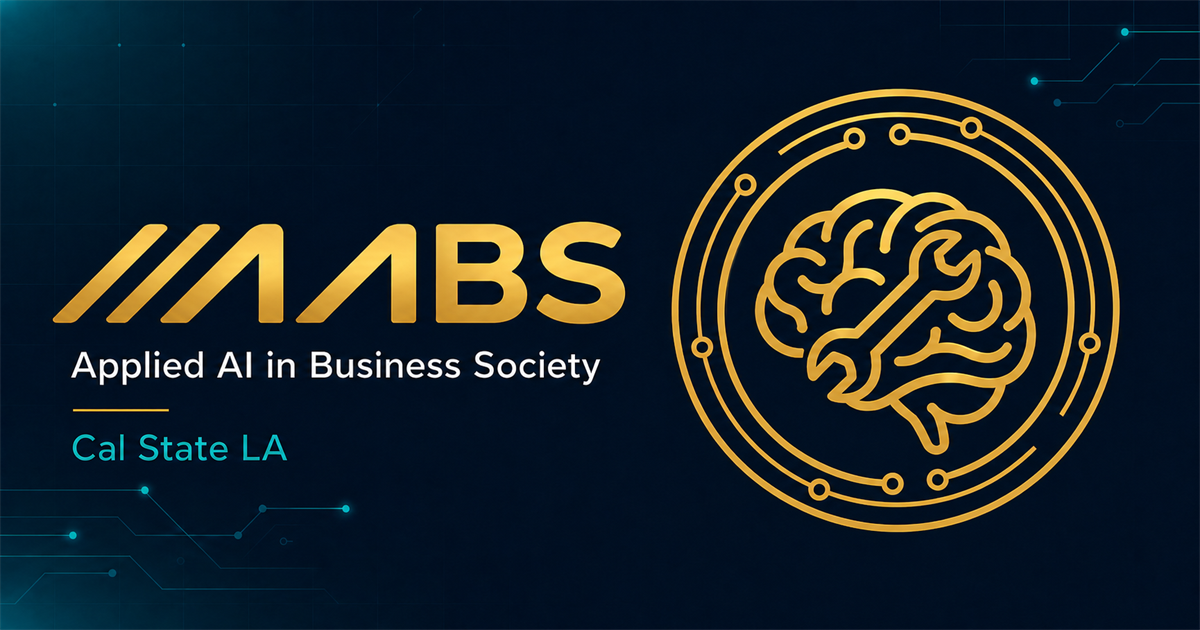
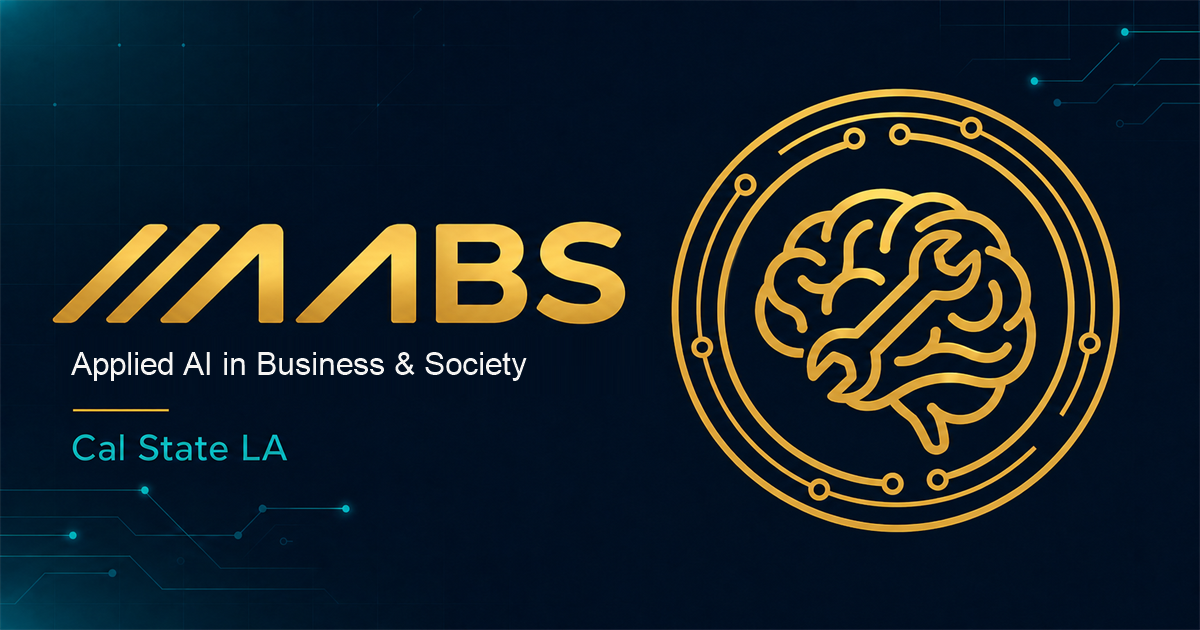
Rename club across site and sharing metadata
Adopt the official Applied AI in Business & Society name throughout the home page, join page, supporting tools, project source pages, and rebuilt project entry pages.

Update titles, descriptions, Open Graph and Twitter/X metadata, structured organization data, visible headings and footers, and the approved 1200x630 social card while leaving the favicon set unchanged.

Changed region(s): [[0.0617, 0.5429, 0.5242, 0.6032]]

diff --git a/index.html b/index.html
@@ -9,18 +9,18 @@
     />
     <meta
       name="description"
-      content="Applied AI in Business Society (AABS) at Cal State LA. Helping local businesses implement practical AI tools while building campus compute infrastructure."
+      content="Applied AI in Business & Society (AABS) at Cal State LA. Helping local businesses implement practical AI tools while building campus compute infrastructure."
     />
     <meta
       property="og:title"
-      content="AABS | Applied AI in Business Society | Cal State LA"
+      content="AABS | Applied AI in Business & Society | Cal State LA"
     />
     <meta
       property="og:description"
       content="Cal State LA student organization helping local businesses implement practical AI tools while building campus compute infrastructure."
     />
     <meta property="og:type" content="website" />
-    <meta property="og:site_name" content="Applied AI in Business Society" />
+    <meta property="og:site_name" content="Applied AI in Business & Society" />
     <meta property="og:locale" content="en_US" />
     <meta
       property="og:url"
@@ -35,12 +35,12 @@
     <meta property="og:image:height" content="630" />
     <meta
       property="og:image:alt"
-      content="AABS wordmark and brain-wrench emblem for the Applied AI in Business Society at Cal State LA"
+      content="AABS wordmark and brain-wrench emblem for the Applied AI in Business & Society at Cal State LA"
     />
     <meta name="twitter:card" content="summary_large_image" />
     <meta
       name="twitter:title"
-      content="AABS | Applied AI in Business Society | Cal State LA"
+      content="AABS | Applied AI in Business & Society | Cal State LA"
     />
     <meta
       name="twitter:description"
@@ -52,7 +52,7 @@
     />
     <meta
       name="twitter:image:alt"
-      content="AABS wordmark and brain-wrench emblem for the Applied AI in Business Society at Cal State LA"
+      content="AABS wordmark and brain-wrench emblem for the Applied AI in Business & Society at Cal State LA"
     />
     <link
       rel="canonical"
@@ -62,7 +62,7 @@
       {
         "@context": "https://schema.org",
         "@type": "Organization",
-        "name": "Applied AI in Business Society",
+        "name": "Applied AI in Business & Society",
         "alternateName": "AABS",
         "url": "https://applied-ai-in-business-society.vercel.app/",
         "logo": "https://applied-ai-in-business-society.vercel.app/img/aabs-brain-wrench-gold-v2.png",
@@ -79,7 +79,7 @@
         ]
       }
     </script>
-    <title>AABS | Applied AI in Business Society | Cal State LA</title>
+    <title>AABS | Applied AI in Business & Society | Cal State LA</title>
     <link rel="apple-touch-icon" sizes="180x180" href="favicon_io/apple-touch-icon.png" />
     <link rel="icon" type="image/x-icon" href="favicon_io/favicon.ico" />
     <link rel="manifest" href="favicon_io/site.webmanifest" />
@@ -161,7 +161,7 @@
           <div class="hero-copy">
             <div class="hero-tag">Cal State LA Student Organization</div>
             <h1>
-              Applied AI<br /><span class="hero-heading-line"><em>in Business</em> Society</span>
+              Applied AI<br /><span class="hero-heading-line"><em>in Business</em> &amp; Society</span>
             </h1>
             <p class="hero-sub">
               We help local businesses adopt practical AI tools to streamline work, while building dedicated campus compute infrastructure for student research and community projects.
@@ -667,7 +667,7 @@
     <footer>
       <div class="footer-brand">
         AABS
-        <span>Applied AI in Business Society</span>
+        <span>Applied AI in Business & Society</span>
       </div>
       <ul class="footer-links">
         <li><a href="https://www.instagram.com/aabscsula/" target="_blank" rel="noopener noreferrer">Instagram</a></li>

diff --git a/join.html b/join.html
@@ -5,18 +5,18 @@
     <meta name="viewport" content="width=device-width, initial-scale=1.0" />
     <meta
       name="description"
-      content="Join the Applied AI in Business Society (AABS), a Cal State LA student organization open to all majors and cross-college collaboration."
+      content="Join the Applied AI in Business & Society (AABS), a Cal State LA student organization open to all majors and cross-college collaboration."
     />
     <meta
       property="og:title"
-      content="Join AABS | Applied AI in Business Society"
+      content="Join AABS | Applied AI in Business & Society"
     />
     <meta
       property="og:description"
       content="Join AABS at Cal State LA to learn, build, and collaborate through practical AI projects, workshops, and professional networking."
     />
     <meta property="og:type" content="website" />
-    <meta property="og:site_name" content="Applied AI in Business Society" />
+    <meta property="og:site_name" content="Applied AI in Business & Society" />
     <meta property="og:locale" content="en_US" />
     <meta
       property="og:url"
@@ -31,12 +31,12 @@
     <meta property="og:image:height" content="630" />
     <meta
       property="og:image:alt"
-      content="AABS wordmark and brain-wrench emblem for the Applied AI in Business Society at Cal State LA"
+      content="AABS wordmark and brain-wrench emblem for the Applied AI in Business & Society at Cal State LA"
     />
     <meta name="twitter:card" content="summary_large_image" />
     <meta
       name="twitter:title"
-      content="Join AABS | Applied AI in Business Society"
+      content="Join AABS | Applied AI in Business & Society"
     />
     <meta
       name="twitter:description"
@@ -48,13 +48,13 @@
     />
     <meta
       name="twitter:image:alt"
-      content="AABS wordmark and brain-wrench emblem for the Applied AI in Business Society at Cal State LA"
+      content="AABS wordmark and brain-wrench emblem for the Applied AI in Business & Society at Cal State LA"
     />
     <link
       rel="canonical"
       href="https://applied-ai-in-business-society.vercel.app/join.html"
     />
-    <title>Join Us | Applied AI in Business Society (AABS)</title>
+    <title>Join Us | Applied AI in Business & Society (AABS)</title>
     <link rel="apple-touch-icon" sizes="180x180" href="favicon_io/apple-touch-icon.png" />
     <link rel="icon" type="image/x-icon" href="favicon_io/favicon.ico" />
     <link rel="manifest" href="favicon_io/site.webmanifest" />
@@ -112,7 +112,7 @@
       <section style="padding: 40px 24px;">
         <div style="max-width: 1100px; margin: 0 auto; text-align: center;">
           <div class="section-tag">Membership Application</div>
-          <h2>Join the <em>Applied AI in Business Society</em></h2>
+          <h2>Join the <em>Applied AI in Business & Society</em></h2>
           <p style="color: var(--text-dim); max-width: 560px; margin: 0 auto 32px; font-size: 14px; line-height: 1.8;">
             Complete this form to get connected with AABS. Students from every academic major at Cal State LA are welcome. We also welcome collaboration with students from ELAC and other colleges.
           </p>
@@ -296,7 +296,7 @@
     <footer>
       <div class="footer-brand">
         AABS
-        <span>Applied AI in Business Society</span>
+        <span>Applied AI in Business & Society</span>
       </div>
       <ul class="footer-links">
         <li><a href="https://www.instagram.com/aabscsula/" target="_blank" rel="noopener noreferrer">Instagram</a></li>

diff --git a/audit_analytics_project/dist/index.html b/audit_analytics_project/dist/index.html
@@ -21,19 +21,19 @@
     <meta property="og:title" content="Audit Analytics Terminal | Forensic Audit Dashboard" />
     <meta property="og:description" content="Audit Analytics Terminal: A high-performance forensic audit dashboard for bike manufacturer data, financial anomalies, and risk matrix visualization." />
     <meta property="og:type" content="website" />
-    <meta property="og:site_name" content="Applied AI in Business Society" />
+    <meta property="og:site_name" content="Applied AI in Business & Society" />
     <meta property="og:locale" content="en_US" />
     <meta property="og:url" content="https://applied-ai-in-business-society.vercel.app/audit_analytics_project/dist/index.html" />
     <meta property="og:image" content="https://applied-ai-in-business-society.vercel.app/img/aabs-social-preview-v2.png" />
     <meta property="og:image:type" content="image/png" />
     <meta property="og:image:width" content="1200" />
     <meta property="og:image:height" content="630" />
-    <meta property="og:image:alt" content="AABS wordmark and brain-wrench emblem for the Applied AI in Business Society at Cal State LA" />
+    <meta property="og:image:alt" content="AABS wordmark and brain-wrench emblem for the Applied AI in Business & Society at Cal State LA" />
     <meta name="twitter:card" content="summary_large_image" />
     <meta name="twitter:title" content="Audit Analytics Terminal | Forensic Audit Dashboard" />
     <meta name="twitter:description" content="A forensic audit dashboard for financial anomalies, Benford analysis, exception review, and risk-matrix visualization." />
     <meta name="twitter:image" content="https://applied-ai-in-business-society.vercel.app/img/aabs-social-preview-v2.png" />
-    <meta name="twitter:image:alt" content="AABS wordmark and brain-wrench emblem for the Applied AI in Business Society at Cal State LA" />
+    <meta name="twitter:image:alt" content="AABS wordmark and brain-wrench emblem for the Applied AI in Business & Society at Cal State LA" />
     <link rel="canonical" href="https://applied-ai-in-business-society.vercel.app/audit_analytics_project/dist/index.html" />
     <title>Audit Analytics Terminal | Forensic Audit Dashboard</title>
     <script defer src="./assets/index-C9RmHcuZ.js"></script>

diff --git a/techflow_project_v2/dist/index.html b/techflow_project_v2/dist/index.html
@@ -13,19 +13,19 @@
     <meta property="og:title" content="TechFlow NexCore Analytics | B2B Revenue &amp; AR Intelligence" />
     <meta property="og:description" content="Analyze $120M in B2B revenue through AR aging, bad-debt provisioning, audit flags, and AI-powered financial insights." />
     <meta property="og:type" content="website" />
-    <meta property="og:site_name" content="Applied AI in Business Society" />
+    <meta property="og:site_name" content="Applied AI in Business & Society" />
     <meta property="og:locale" content="en_US" />
     <meta property="og:url" content="https://applied-ai-in-business-society.vercel.app/techflow_project_v2/dist/index.html" />
     <meta property="og:image" content="https://applied-ai-in-business-society.vercel.app/img/aabs-social-preview-v2.png" />
     <meta property="og:image:type" content="image/png" />
     <meta property="og:image:width" content="1200" />
     <meta property="og:image:height" content="630" />
-    <meta property="og:image:alt" content="AABS wordmark and brain-wrench emblem for the Applied AI in Business Society at Cal State LA" />
+    <meta property="og:image:alt" content="AABS wordmark and brain-wrench emblem for the Applied AI in Business & Society at Cal State LA" />
     <meta name="twitter:card" content="summary_large_image" />
     <meta name="twitter:title" content="TechFlow NexCore Analytics | B2B Revenue &amp; AR Intelligence" />
     <meta name="twitter:description" content="Analyze $120M in B2B revenue through AR aging, bad-debt provisioning, audit flags, and AI-powered financial insights." />
     <meta name="twitter:image" content="https://applied-ai-in-business-society.vercel.app/img/aabs-social-preview-v2.png" />
-    <meta name="twitter:image:alt" content="AABS wordmark and brain-wrench emblem for the Applied AI in Business Society at Cal State LA" />
+    <meta name="twitter:image:alt" content="AABS wordmark and brain-wrench emblem for the Applied AI in Business & Society at Cal State LA" />
     <link rel="canonical" href="https://applied-ai-in-business-society.vercel.app/techflow_project_v2/dist/index.html" />
     <title>TechFlow NexCore Analytics | B2B Revenue & AR Intelligence</title>
     <script defer src="./assets/index-DbmFHFCy.js"></script>

diff --git a/techflow_project_v1/dist/index.html b/techflow_project_v1/dist/index.html
@@ -13,19 +13,19 @@
     <meta property="og:title" content="TechFlow Analytics V1 | FY 2019 Revenue Intelligence" />
     <meta property="og:description" content="Explore $85M in B2B revenue through customer analysis, AR aging, payment risk, and AI-powered financial insights." />
     <meta property="og:type" content="website" />
-    <meta property="og:site_name" content="Applied AI in Business Society" />
+    <meta property="og:site_name" content="Applied AI in Business & Society" />
     <meta property="og:locale" content="en_US" />
     <meta property="og:url" content="https://applied-ai-in-business-society.vercel.app/techflow_project_v1/dist/index.html" />
     <meta property="og:image" content="https://applied-ai-in-business-society.vercel.app/img/aabs-social-preview-v2.png" />
     <meta property="og:image:type" content="image/png" />
     <meta property="og:image:width" content="1200" />
     <meta property="og:image:height" content="630" />
-    <meta property="og:image:alt" content="AABS wordmark and brain-wrench emblem for the Applied AI in Business Society at Cal State LA" />
+    <meta property="og:image:alt" content="AABS wordmark and brain-wrench emblem for the Applied AI in Business & Society at Cal State LA" />
     <meta name="twitter:card" content="summary_large_image" />
     <meta name="twitter:title" content="TechFlow Analytics V1 | FY 2019 Revenue Intelligence" />
     <meta name="twitter:description" content="Explore $85M in B2B revenue through customer analysis, AR aging, payment risk, and AI-powered financial insights." />
     <meta name="twitter:image" content="https://applied-ai-in-business-society.vercel.app/img/aabs-social-preview-v2.png" />
-    <meta name="twitter:image:alt" content="AABS wordmark and brain-wrench emblem for the Applied AI in Business Society at Cal State LA" />
+    <meta name="twitter:image:alt" content="AABS wordmark and brain-wrench emblem for the Applied AI in Business & Society at Cal State LA" />
     <link rel="canonical" href="https://applied-ai-in-business-society.vercel.app/techflow_project_v1/dist/index.html" />
     <title>TechFlow Analytics V1 | FY 2019 Revenue Intelligence</title>
     <script defer src="./assets/index-mxecHmBZ.js"></script>

diff --git a/audit_analytics_project/index.html b/audit_analytics_project/index.html
@@ -21,19 +21,19 @@
     <meta property="og:title" content="Audit Analytics Terminal | Forensic Audit Dashboard" />
     <meta property="og:description" content="Audit Analytics Terminal: A high-performance forensic audit dashboard for bike manufacturer data, financial anomalies, and risk matrix visualization." />
     <meta property="og:type" content="website" />
-    <meta property="og:site_name" content="Applied AI in Business Society" />
+    <meta property="og:site_name" content="Applied AI in Business & Society" />
     <meta property="og:locale" content="en_US" />
     <meta property="og:url" content="https://applied-ai-in-business-society.vercel.app/audit_analytics_project/dist/index.html" />
     <meta property="og:image" content="https://applied-ai-in-business-society.vercel.app/img/aabs-social-preview-v2.png" />
     <meta property="og:image:type" content="image/png" />
     <meta property="og:image:width" content="1200" />
     <meta property="og:image:height" content="630" />
-    <meta property="og:image:alt" content="AABS wordmark and brain-wrench emblem for the Applied AI in Business Society at Cal State LA" />
+    <meta property="og:image:alt" content="AABS wordmark and brain-wrench emblem for the Applied AI in Business & Society at Cal State LA" />
     <meta name="twitter:card" content="summary_large_image" />
     <meta name="twitter:title" content="Audit Analytics Terminal | Forensic Audit Dashboard" />
     <meta name="twitter:description" content="A forensic audit dashboard for financial anomalies, Benford analysis, exception review, and risk-matrix visualization." />
     <meta name="twitter:image" content="https://applied-ai-in-business-society.vercel.app/img/aabs-social-preview-v2.png" />
-    <meta name="twitter:image:alt" content="AABS wordmark and brain-wrench emblem for the Applied AI in Business Society at Cal State LA" />
+    <meta name="twitter:image:alt" content="AABS wordmark and brain-wrench emblem for the Applied AI in Business & Society at Cal State LA" />
     <link rel="canonical" href="https://applied-ai-in-business-society.vercel.app/audit_analytics_project/dist/index.html" />
     <title>Audit Analytics Terminal | Forensic Audit Dashboard</title>
   </head>

diff --git a/techflow_project_v2/index.html b/techflow_project_v2/index.html
@@ -13,19 +13,19 @@
     <meta property="og:title" content="TechFlow NexCore Analytics | B2B Revenue &amp; AR Intelligence" />
     <meta property="og:description" content="Analyze $120M in B2B revenue through AR aging, bad-debt provisioning, audit flags, and AI-powered financial insights." />
     <meta property="og:type" content="website" />
-    <meta property="og:site_name" content="Applied AI in Business Society" />
+    <meta property="og:site_name" content="Applied AI in Business & Society" />
     <meta property="og:locale" content="en_US" />
     <meta property="og:url" content="https://applied-ai-in-business-society.vercel.app/techflow_project_v2/dist/index.html" />
     <meta property="og:image" content="https://applied-ai-in-business-society.vercel.app/img/aabs-social-preview-v2.png" />
     <meta property="og:image:type" content="image/png" />
     <meta property="og:image:width" content="1200" />
     <meta property="og:image:height" content="630" />
-    <meta property="og:image:alt" content="AABS wordmark and brain-wrench emblem for the Applied AI in Business Society at Cal State LA" />
+    <meta property="og:image:alt" content="AABS wordmark and brain-wrench emblem for the Applied AI in Business & Society at Cal State LA" />
     <meta name="twitter:card" content="summary_large_image" />
     <meta name="twitter:title" content="TechFlow NexCore Analytics | B2B Revenue &amp; AR Intelligence" />
     <meta name="twitter:description" content="Analyze $120M in B2B revenue through AR aging, bad-debt provisioning, audit flags, and AI-powered financial insights." />
     <meta name="twitter:image" content="https://applied-ai-in-business-society.vercel.app/img/aabs-social-preview-v2.png" />
-    <meta name="twitter:image:alt" content="AABS wordmark and brain-wrench emblem for the Applied AI in Business Society at Cal State LA" />
+    <meta name="twitter:image:alt" content="AABS wordmark and brain-wrench emblem for the Applied AI in Business & Society at Cal State LA" />
     <link rel="canonical" href="https://applied-ai-in-business-society.vercel.app/techflow_project_v2/dist/index.html" />
     <title>TechFlow NexCore Analytics | B2B Revenue & AR Intelligence</title>
   </head>

diff --git a/financial-analysis.html b/financial-analysis.html
@@ -10,19 +10,19 @@
     <meta property="og:title" content="Corporate Valuation Intelligence | AABS" />
     <meta property="og:description" content="AI-assisted corporate valuation platform performing peer comparison, discounted cash-flow modeling, and risk analysis." />
     <meta property="og:type" content="website" />
-    <meta property="og:site_name" content="Applied AI in Business Society" />
+    <meta property="og:site_name" content="Applied AI in Business & Society" />
     <meta property="og:locale" content="en_US" />
     <meta property="og:url" content="https://applied-ai-in-business-society.vercel.app/financial-analysis.html" />
     <meta property="og:image" content="https://applied-ai-in-business-society.vercel.app/img/aabs-social-preview-v2.png" />
     <meta property="og:image:type" content="image/png" />
     <meta property="og:image:width" content="1200" />
     <meta property="og:image:height" content="630" />
-    <meta property="og:image:alt" content="AABS wordmark and brain-wrench emblem for the Applied AI in Business Society at Cal State LA" />
+    <meta property="og:image:alt" content="AABS wordmark and brain-wrench emblem for the Applied AI in Business & Society at Cal State LA" />
     <meta name="twitter:card" content="summary_large_image" />
     <meta name="twitter:title" content="Corporate Valuation Intelligence | AABS" />
     <meta name="twitter:description" content="AI-assisted corporate valuation platform performing peer comparison, discounted cash-flow modeling, and risk analysis." />
     <meta name="twitter:image" content="https://applied-ai-in-business-society.vercel.app/img/aabs-social-preview-v2.png" />
-    <meta name="twitter:image:alt" content="AABS wordmark and brain-wrench emblem for the Applied AI in Business Society at Cal State LA" />
+    <meta name="twitter:image:alt" content="AABS wordmark and brain-wrench emblem for the Applied AI in Business & Society at Cal State LA" />
     <link rel="canonical" href="https://applied-ai-in-business-society.vercel.app/financial-analysis.html" />
     <title>Corporate Valuation Intelligence | AABS</title>
     <link rel="apple-touch-icon" sizes="180x180" href="favicon_io/apple-touch-icon.png" />

diff --git a/ledger_lens_project/dist/index.html b/ledger_lens_project/dist/index.html
@@ -10,19 +10,19 @@
     <meta property="og:title" content="Ledger Lens | Enterprise AI for Tax Professionals" />
     <meta property="og:description" content="A practical guide to leveraging enterprise AI for tax professionals, focusing on bad debt provision and AR aging analysis." />
     <meta property="og:type" content="website" />
-    <meta property="og:site_name" content="Applied AI in Business Society" />
+    <meta property="og:site_name" content="Applied AI in Business & Society" />
     <meta property="og:locale" content="en_US" />
     <meta property="og:url" content="https://applied-ai-in-business-society.vercel.app/ledger_lens_project/dist/index.html" />
     <meta property="og:image" content="https://applied-ai-in-business-society.vercel.app/img/aabs-social-preview-v2.png" />
     <meta property="og:image:type" content="image/png" />
     <meta property="og:image:width" content="1200" />
     <meta property="og:image:height" content="630" />
-    <meta property="og:image:alt" content="AABS wordmark and brain-wrench emblem for the Applied AI in Business Society at Cal State LA" />
+    <meta property="og:image:alt" content="AABS wordmark and brain-wrench emblem for the Applied AI in Business & Society at Cal State LA" />
     <meta name="twitter:card" content="summary_large_image" />
     <meta name="twitter:title" content="Ledger Lens | Enterprise AI for Tax Professionals" />
     <meta name="twitter:description" content="A practical guide to bad-debt provision, AR aging analysis, and enterprise AI workflows for tax professionals." />
     <meta name="twitter:image" content="https://applied-ai-in-business-society.vercel.app/img/aabs-social-preview-v2.png" />
-    <meta name="twitter:image:alt" content="AABS wordmark and brain-wrench emblem for the Applied AI in Business Society at Cal State LA" />
+    <meta name="twitter:image:alt" content="AABS wordmark and brain-wrench emblem for the Applied AI in Business & Society at Cal State LA" />
     <link rel="canonical" href="https://applied-ai-in-business-society.vercel.app/ledger_lens_project/dist/index.html" />
     <title>Ledger Lens | Enterprise AI for Tax Professionals</title>
     <script>

diff --git a/ledger_lens_project/index.html b/ledger_lens_project/index.html
@@ -10,19 +10,19 @@
     <meta property="og:title" content="Ledger Lens | Enterprise AI for Tax Professionals" />
     <meta property="og:description" content="A practical guide to leveraging enterprise AI for tax professionals, focusing on bad debt provision and AR aging analysis." />
     <meta property="og:type" content="website" />
-    <meta property="og:site_name" content="Applied AI in Business Society" />
+    <meta property="og:site_name" content="Applied AI in Business & Society" />
     <meta property="og:locale" content="en_US" />
     <meta property="og:url" content="https://applied-ai-in-business-society.vercel.app/ledger_lens_project/dist/index.html" />
     <meta property="og:image" content="https://applied-ai-in-business-society.vercel.app/img/aabs-social-preview-v2.png" />
     <meta property="og:image:type" content="image/png" />
     <meta property="og:image:width" content="1200" />
     <meta property="og:image:height" content="630" />
-    <meta property="og:image:alt" content="AABS wordmark and brain-wrench emblem for the Applied AI in Business Society at Cal State LA" />
+    <meta property="og:image:alt" content="AABS wordmark and brain-wrench emblem for the Applied AI in Business & Society at Cal State LA" />
     <meta name="twitter:card" content="summary_large_image" />
     <meta name="twitter:title" content="Ledger Lens | Enterprise AI for Tax Professionals" />
     <meta name="twitter:description" content="A practical guide to bad-debt provision, AR aging analysis, and enterprise AI workflows for tax professionals." />
     <meta name="twitter:image" content="https://applied-ai-in-business-society.vercel.app/img/aabs-social-preview-v2.png" />
-    <meta name="twitter:image:alt" content="AABS wordmark and brain-wrench emblem for the Applied AI in Business Society at Cal State LA" />
+    <meta name="twitter:image:alt" content="AABS wordmark and brain-wrench emblem for the Applied AI in Business & Society at Cal State LA" />
     <link rel="canonical" href="https://applied-ai-in-business-society.vercel.app/ledger_lens_project/dist/index.html" />
     <title>Ledger Lens | Enterprise AI for Tax Professionals</title>
     <script>

diff --git a/techflow_project_v1/index.html b/techflow_project_v1/index.html
@@ -13,19 +13,19 @@
     <meta property="og:title" content="TechFlow Analytics V1 | FY 2019 Revenue Intelligence" />
     <meta property="og:description" content="Explore $85M in B2B revenue through customer analysis, AR aging, payment risk, and AI-powered financial insights." />
     <meta property="og:type" content="website" />
-    <meta property="og:site_name" content="Applied AI in Business Society" />
+    <meta property="og:site_name" content="Applied AI in Business & Society" />
     <meta property="og:locale" content="en_US" />
     <meta property="og:url" content="https://applied-ai-in-business-society.vercel.app/techflow_project_v1/dist/index.html" />
     <meta property="og:image" content="https://applied-ai-in-business-society.vercel.app/img/aabs-social-preview-v2.png" />
     <meta property="og:image:type" content="image/png" />
     <meta property="og:image:width" content="1200" />
     <meta property="og:image:height" content="630" />
-    <meta property="og:image:alt" content="AABS wordmark and brain-wrench emblem for the Applied AI in Business Society at Cal State LA" />
+    <meta property="og:image:alt" content="AABS wordmark and brain-wrench emblem for the Applied AI in Business & Society at Cal State LA" />
     <meta name="twitter:card" content="summary_large_image" />
     <meta name="twitter:title" content="TechFlow Analytics V1 | FY 2019 Revenue Intelligence" />
     <meta name="twitter:description" content="Explore $85M in B2B revenue through customer analysis, AR aging, payment risk, and AI-powered financial insights." />
     <meta name="twitter:image" content="https://applied-ai-in-business-society.vercel.app/img/aabs-social-preview-v2.png" />
-    <meta name="twitter:image:alt" content="AABS wordmark and brain-wrench emblem for the Applied AI in Business Society at Cal State LA" />
+    <meta name="twitter:image:alt" content="AABS wordmark and brain-wrench emblem for the Applied AI in Business & Society at Cal State LA" />
     <link rel="canonical" href="https://applied-ai-in-business-society.vercel.app/techflow_project_v1/dist/index.html" />
     <title>TechFlow Analytics V1 | FY 2019 Revenue Intelligence</title>
   </head>

diff --git a/diagram-maker.html b/diagram-maker.html
@@ -10,19 +10,19 @@
     <meta property="og:title" content="Systems Analysis Diagram Maker | AABS" />
     <meta property="og:description" content="Generate use-case, activity, class, and ER diagrams from plain English with AI." />
     <meta property="og:type" content="website" />
-    <meta property="og:site_name" content="Applied AI in Business Society" />
+    <meta property="og:site_name" content="Applied AI in Business & Society" />
     <meta property="og:locale" content="en_US" />
     <meta property="og:url" content="https://applied-ai-in-business-society.vercel.app/diagram-maker.html" />
     <meta property="og:image" content="https://applied-ai-in-business-society.vercel.app/img/aabs-social-preview-v2.png" />
     <meta property="og:image:type" content="image/png" />
     <meta property="og:image:width" content="1200" />
     <meta property="og:image:height" content="630" />
-    <meta property="og:image:alt" content="AABS wordmark and brain-wrench emblem for the Applied AI in Business Society at Cal State LA" />
+    <meta property="og:image:alt" content="AABS wordmark and brain-wrench emblem for the Applied AI in Business & Society at Cal State LA" />
     <meta name="twitter:card" content="summary_large_image" />
     <meta name="twitter:title" content="Systems Analysis Diagram Maker | AABS" />
     <meta name="twitter:description" content="Generate use-case, activity, class, and ER diagrams from plain English with AI." />
     <meta name="twitter:image" content="https://applied-ai-in-business-society.vercel.app/img/aabs-social-preview-v2.png" />
-    <meta name="twitter:image:alt" content="AABS wordmark and brain-wrench emblem for the Applied AI in Business Society at Cal State LA" />
+    <meta name="twitter:image:alt" content="AABS wordmark and brain-wrench emblem for the Applied AI in Business & Society at Cal State LA" />
     <link rel="canonical" href="https://applied-ai-in-business-society.vercel.app/diagram-maker.html" />
     <title>Systems Analysis Diagram Maker | AABS</title>
     <link rel="apple-touch-icon" sizes="180x180" href="favicon_io/apple-touch-icon.png" />
